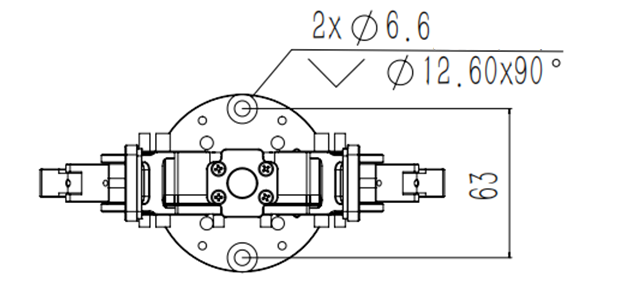
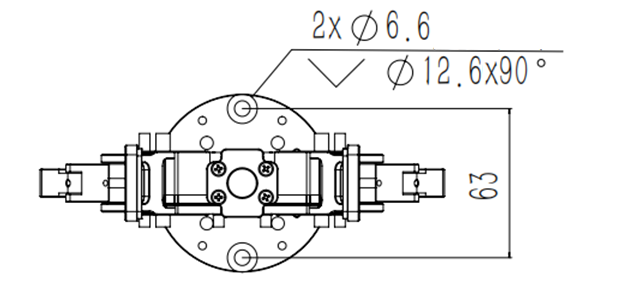
update

Changed region(s): [[0.7699, 0.1986, 0.9238, 0.3121]]

diff --git a/en/xArm_Gripper_G2/6.Technical_Specifications.md b/en/xArm_Gripper_G2/6.Technical_Specifications.md
@@ -42,7 +42,7 @@ The gripper length L varies with the opening distance d according to the geometr
 
 $$L = 121.606 + \sqrt{55.000^2 - (0.5d - 8.997)^2}$$
 
-where L and d are in mm. For example, L ≈ 175.86 mm at d = 0 and L ≈ 165.22 mm at d = 85 mm, which agree with the dimensions marked in the figures above.
+where L and d are in mm. For example, L ≈ 175.9 mm at d = 0 and L ≈ 165.2 mm at d = 85 mm, which agree with the dimensions marked in the figures above.
 
 The curve of L versus d is shown below:
 

diff --git a/zhHans/xArm_Gripper_G2/6.Technical_Specifications.md b/zhHans/xArm_Gripper_G2/6.Technical_Specifications.md
@@ -41,7 +41,7 @@
 
 $$L = 121.606 + \sqrt{55.000^2 - (0.5d - 8.997)^2}$$
 
-式中，L 和 d 的单位均为 mm。例如，d = 0 时 L ≈ 175.86 mm，d = 85 mm 时 L ≈ 165.22 mm，与上图中闭合、张开状态的尺寸标注一致。
+式中，L 和 d 的单位均为 mm。例如，d = 0 时 L ≈ 175.9 mm，d = 85 mm 时 L ≈ 165.2 mm，与上图中闭合、张开状态的尺寸标注一致。
 
 L 随 d 变化的曲线如下图所示：
 
